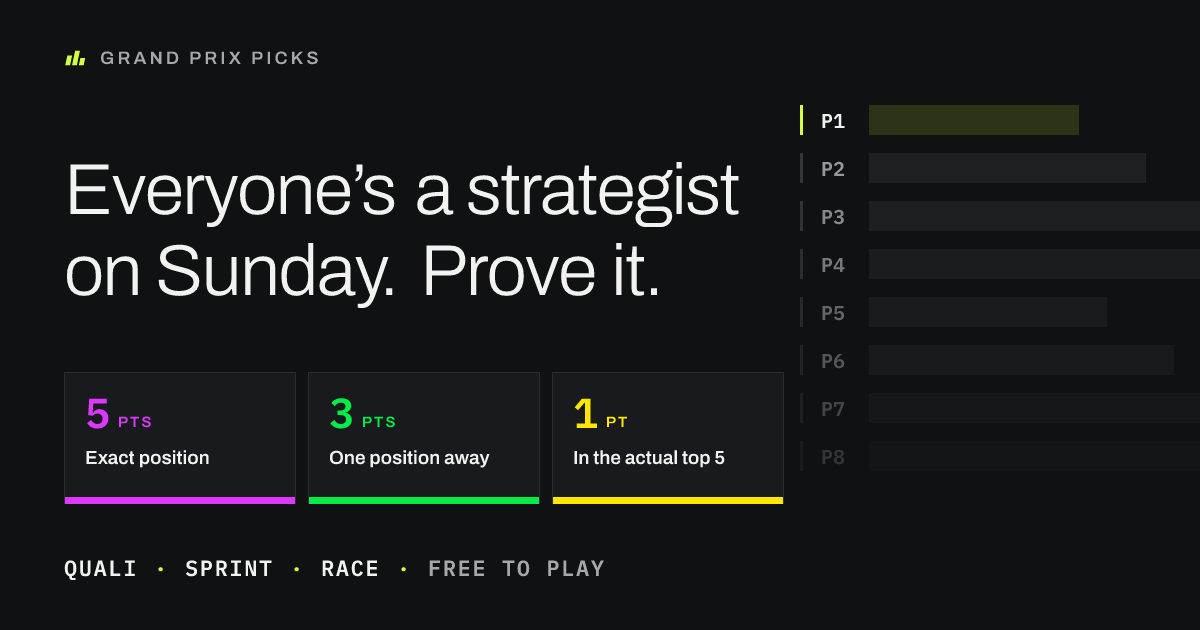
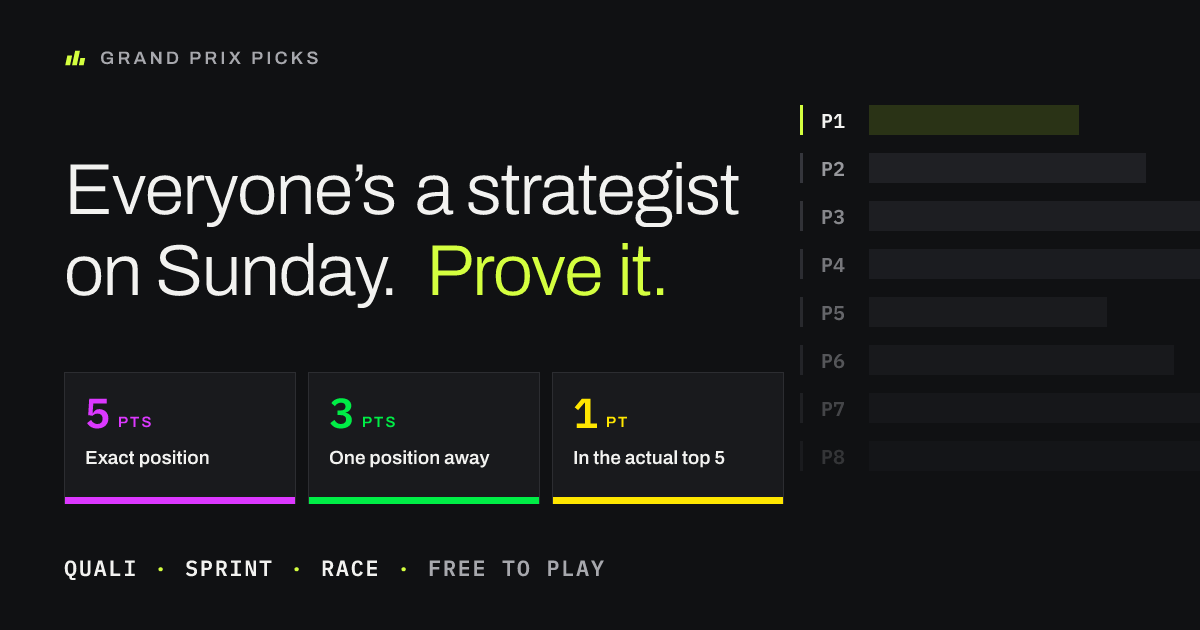
feat(og): set "Prove it." in the accent
The card's loudest colour was on chrome — brand mark, P1 tick, strip dots
— and never on the words doing the selling. Chartreuse on the call to
action makes it the primary accent moment and gives the eye somewhere to
land after the scoring tiles.

Split across two flex boxes rather than a nested span: satori's inline
handling is not reliable enough to trust a colour change mid-line, and the
gap stands in for the word space flex would otherwise collapse.

Claude-Session: https://claude.ai/code/session_01N6LA5MXSj3NH78j28Zwgqa

Changed region(s): [[0.3392, 0.3921, 0.555, 0.4825]]

diff --git a/apps/web/src/lib/og/templates.ts b/apps/web/src/lib/og/templates.ts
@@ -366,7 +366,19 @@ function brandHeadline(): ReactNode {
     // Typographic apostrophe: the straight quote is the one glyph on this card
     // that gives away that it was written in a code editor.
     e('div', {}, 'Everyone’s a strategist'),
-    e('div', {}, 'on Sunday. Prove it.'),
+    // "Prove it." in chartreuse. This is now the card's primary accent moment,
+    // which is the point: the other three (brand mark, P1 tick, strip dots)
+    // are all chrome, so the loudest colour on the card was never on the words
+    // doing the selling. Split into two boxes rather than a nested span
+    // because satori's inline handling is not reliable enough to trust a
+    // colour change mid-line; the gap stands in for the word space that flex
+    // would otherwise collapse.
+    e(
+      'div',
+      { style: { display: 'flex', gap: 20 } },
+      e('div', {}, 'on Sunday.'),
+      e('div', { style: { color: colors.accent } }, 'Prove it.'),
+    ),
   );
 }
 
@@ -490,9 +502,10 @@ function scoringTile(band: (typeof SCORING_BANDS)[number]): ReactNode {
  * empty. Pins keep the hierarchy stable at thumbnail size.
  *
  * No drawn CTA button (not clickable in an OG image) and no domain (the
- * platform already shows it under the card). Accent is scarce: one lime on the
- * tower's P1 tick, plus the strip separator dots. The scoring tiles carry the
- * only other colour, and it is semantic.
+ * platform already shows it under the card). Accent is scarce and now spent
+ * where it earns most: "Prove it." in the headline, with the tower's P1 tick,
+ * the strip separator dots and the brand mark as chrome behind it. The scoring
+ * tiles carry the only other colour, and it is semantic.
  *
  * The headline sat at 76px over a ~180px dead band, which is the space the
  * scoring row now fills. Dropping to 72px is what buys the tiles their width
